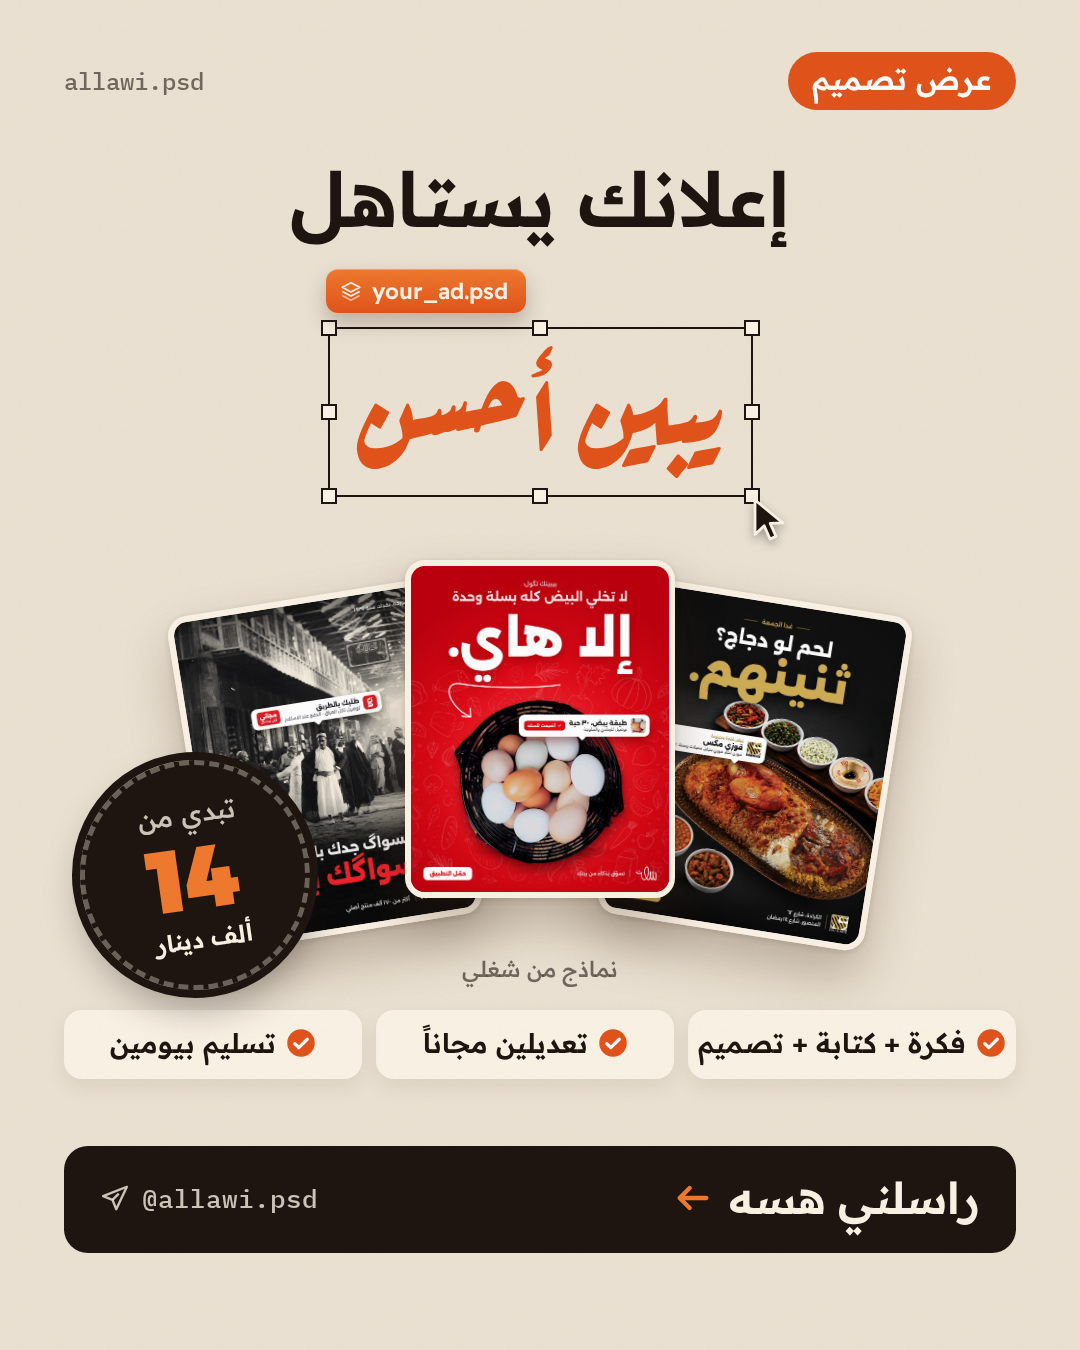
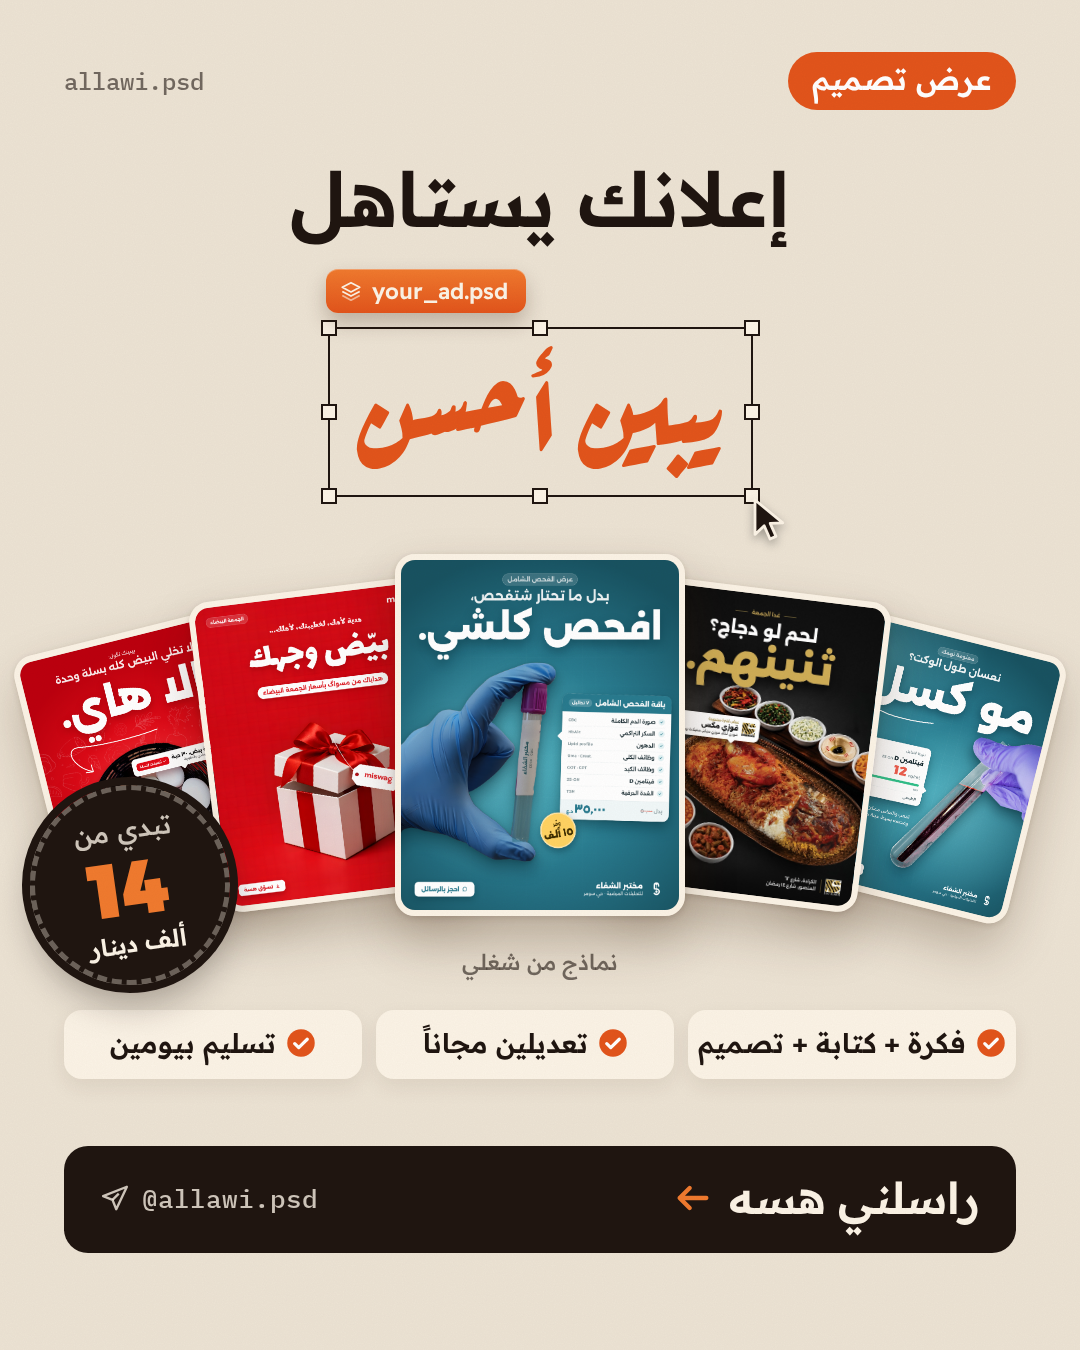
Offer post: show five strongest ads, lab post in front
Claude-Session: https://claude.ai/code/session_013oWw8PeK3nbdaZG97hkGWn

Changed region(s): [[0.0, 0.4044, 1.0, 0.7778], [0.4278, 0.7156, 0.5806, 0.7467]]

diff --git a/marketing/ig-offer/offer.html b/marketing/ig-offer/offer.html
@@ -120,12 +120,14 @@ body { background:#333; display:flex; gap:40px; padding:40px; align-items:flex-s
     </div>
   </div>
   <div class="fan" style="top:560px">
-    <img src="../ig-brand-posts/works/miswag.jpg" style="left:190px; top:36px; transform:rotate(-9deg)" />
-    <img src="../ig-brand-posts/works/saj.jpg" style="left:620px; top:36px; transform:rotate(9deg)" />
-    <img src="../ig-brand-posts/works/sala.jpg" style="left:405px; top:0; z-index:2" />
-    <div class="badge" style="left:80px; top:200px"><small>تبدي من</small><b>14</b><span>ألف دينار</span></div>
+    <img src="../sala-ad/out/sala-ad.png" style="left:40px; top:70px; width:220px; height:275px; transform:rotate(-14deg)" />
+    <img src="../alshifa-lab/out/alshifa-vitamin-d.png" style="left:820px; top:70px; width:220px; height:275px; transform:rotate(14deg)" />
+    <img src="../miswag-white-friday/out/miswag-white-friday-2.png" style="left:205px; top:28px; width:250px; height:312px; transform:rotate(-7deg); z-index:2" />
+    <img src="../ig-brand-posts/works/saj.jpg" style="left:625px; top:28px; width:250px; height:312px; transform:rotate(7deg); z-index:2" />
+    <img src="../alshifa-lab/out/alshifa-offer.png" style="left:395px; top:-6px; width:290px; height:362px; z-index:3" />
+    <div class="badge" style="left:30px; top:225px; width:200px; height:200px"><small>تبدي من</small><b style="font-size:76px">14</b><span>ألف دينار</span></div>
   </div>
-  <div class="cap" style="top:955px">نماذج من شغلي</div>
+  <div class="cap" style="top:948px">نماذج من شغلي</div>
   <div class="perks" style="top:1010px">
     <div class="perk"><svg><use href="#i-check"/></svg>فكرة + كتابة + تصميم</div>
     <div class="perk"><svg><use href="#i-check"/></svg>تعديلين مجاناً</div>

diff --git a/marketing/ig-offer/README.md b/marketing/ig-offer/README.md
@@ -4,7 +4,7 @@
 
 - `post` (1080x1350): the offer ad.
   - Headline «إعلانك يستاهل / يبين أحسن», with the Photoshop selection on the second line.
-  - A fan of three portfolio pieces from `../ig-brand-posts/works`.
+  - A fan of five portfolio pieces: the Al-Shifa lab offer in front, then Miswag White Friday, «ثنينهم», Sala and the vitamin D post.
   - A «تبدي من 14 ألف» badge, three perks and a «راسلني هسه» bar.
 - `h1`, `h2`, `h3` (1080x1920): highlight stories.
   - `h1`: single prices.
